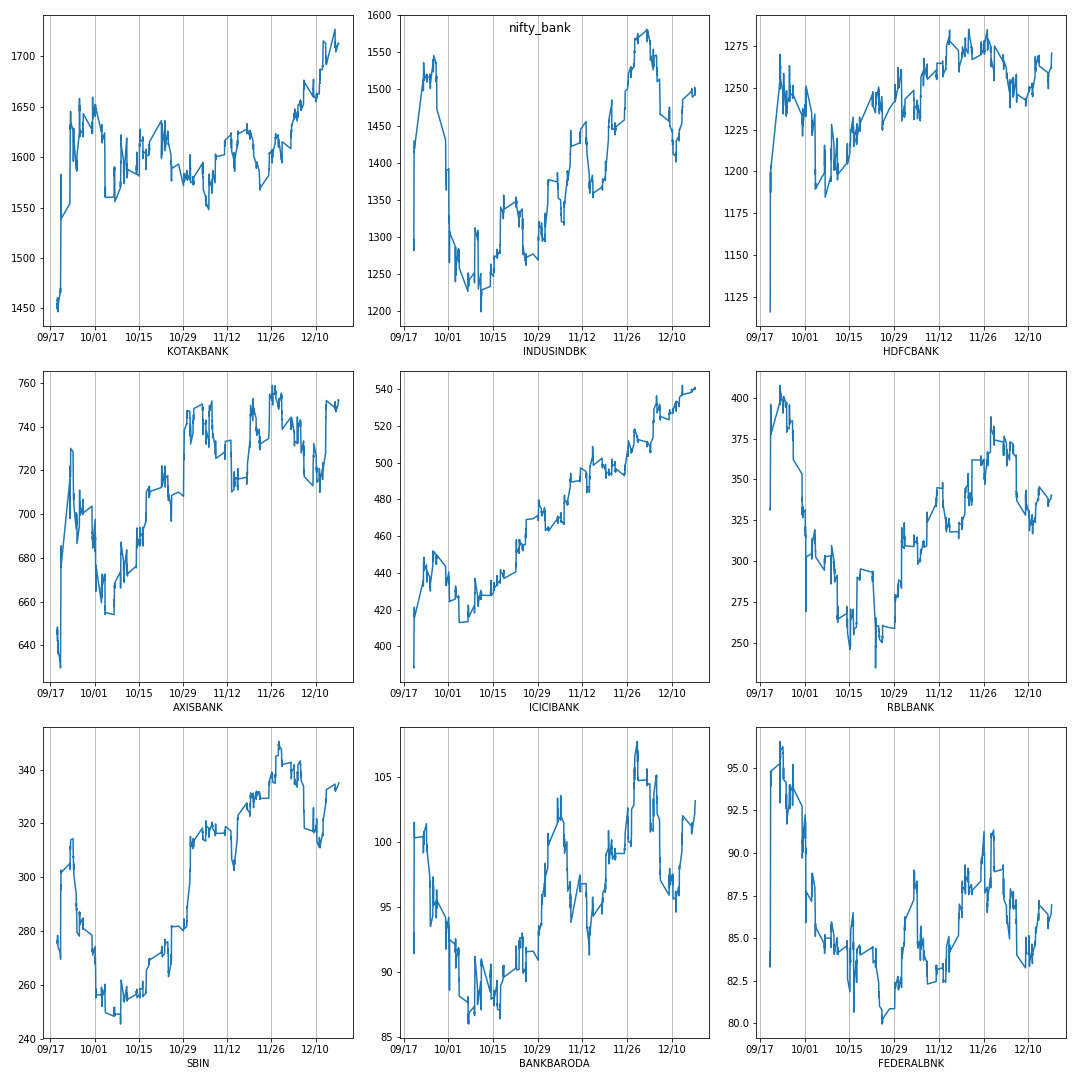
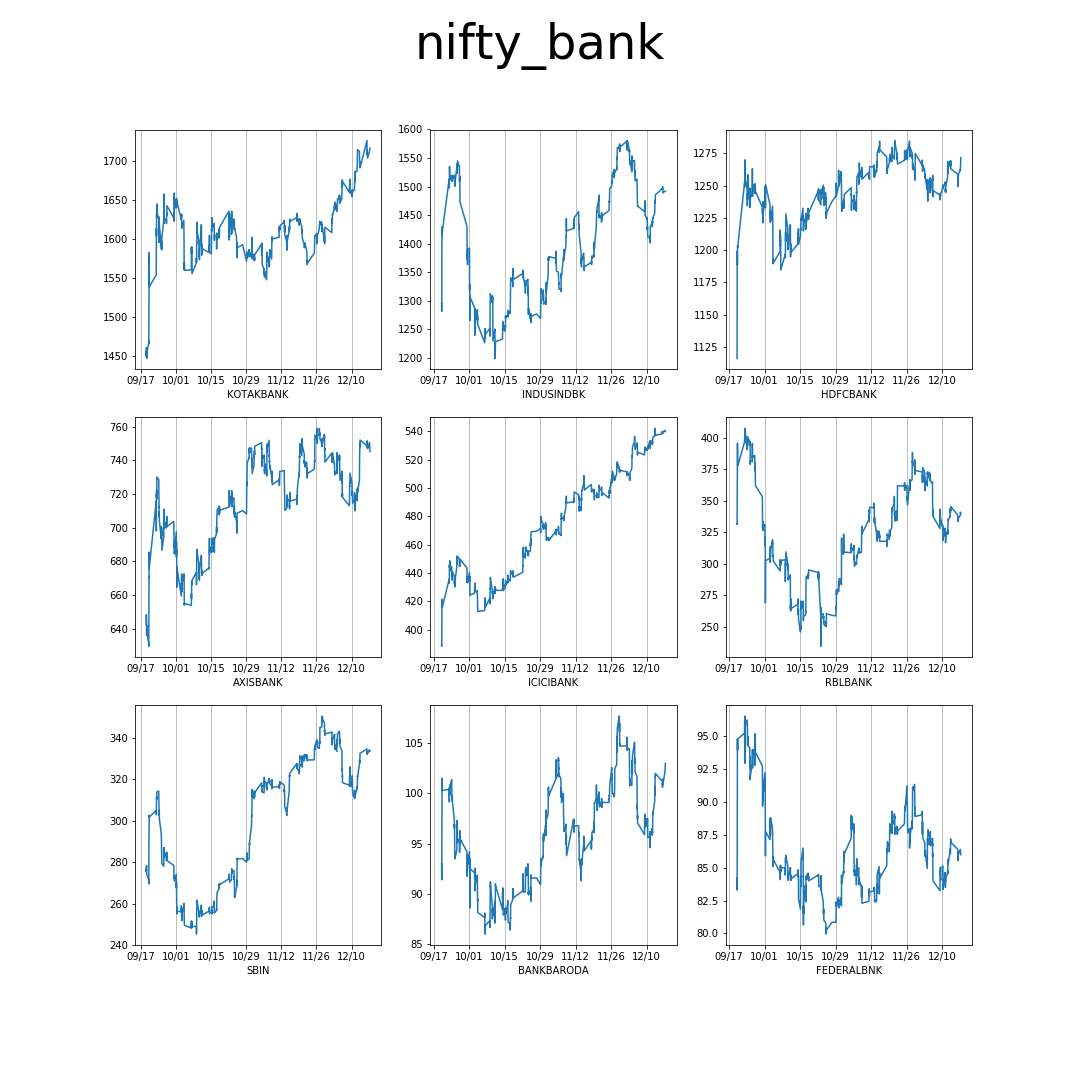
changes

diff --git a/Sectorwise_stock_data_visualization_python_file.py b/Sectorwise_stock_data_visualization_python_file.py
@@ -71,9 +71,9 @@ def plot(list,sector):
         # Ensure ticks fall once every other week (interval=2) 
         axes[i,j].xaxis.set_major_locator(mdates.WeekdayLocator(interval=2))
     
-    fig.suptitle(sector)
-    fig.subplots_adjust(top=2)
-    fig.tight_layout()
+    fig.suptitle(sector, fontsize=48)
+    #fig.subplots_adjust(top=2)
+    #fig.tight_layout()
     fig.savefig(r"C:\Users\Asus\Desktop\pproject\options algo\\" + sector + ".png")
     
 
